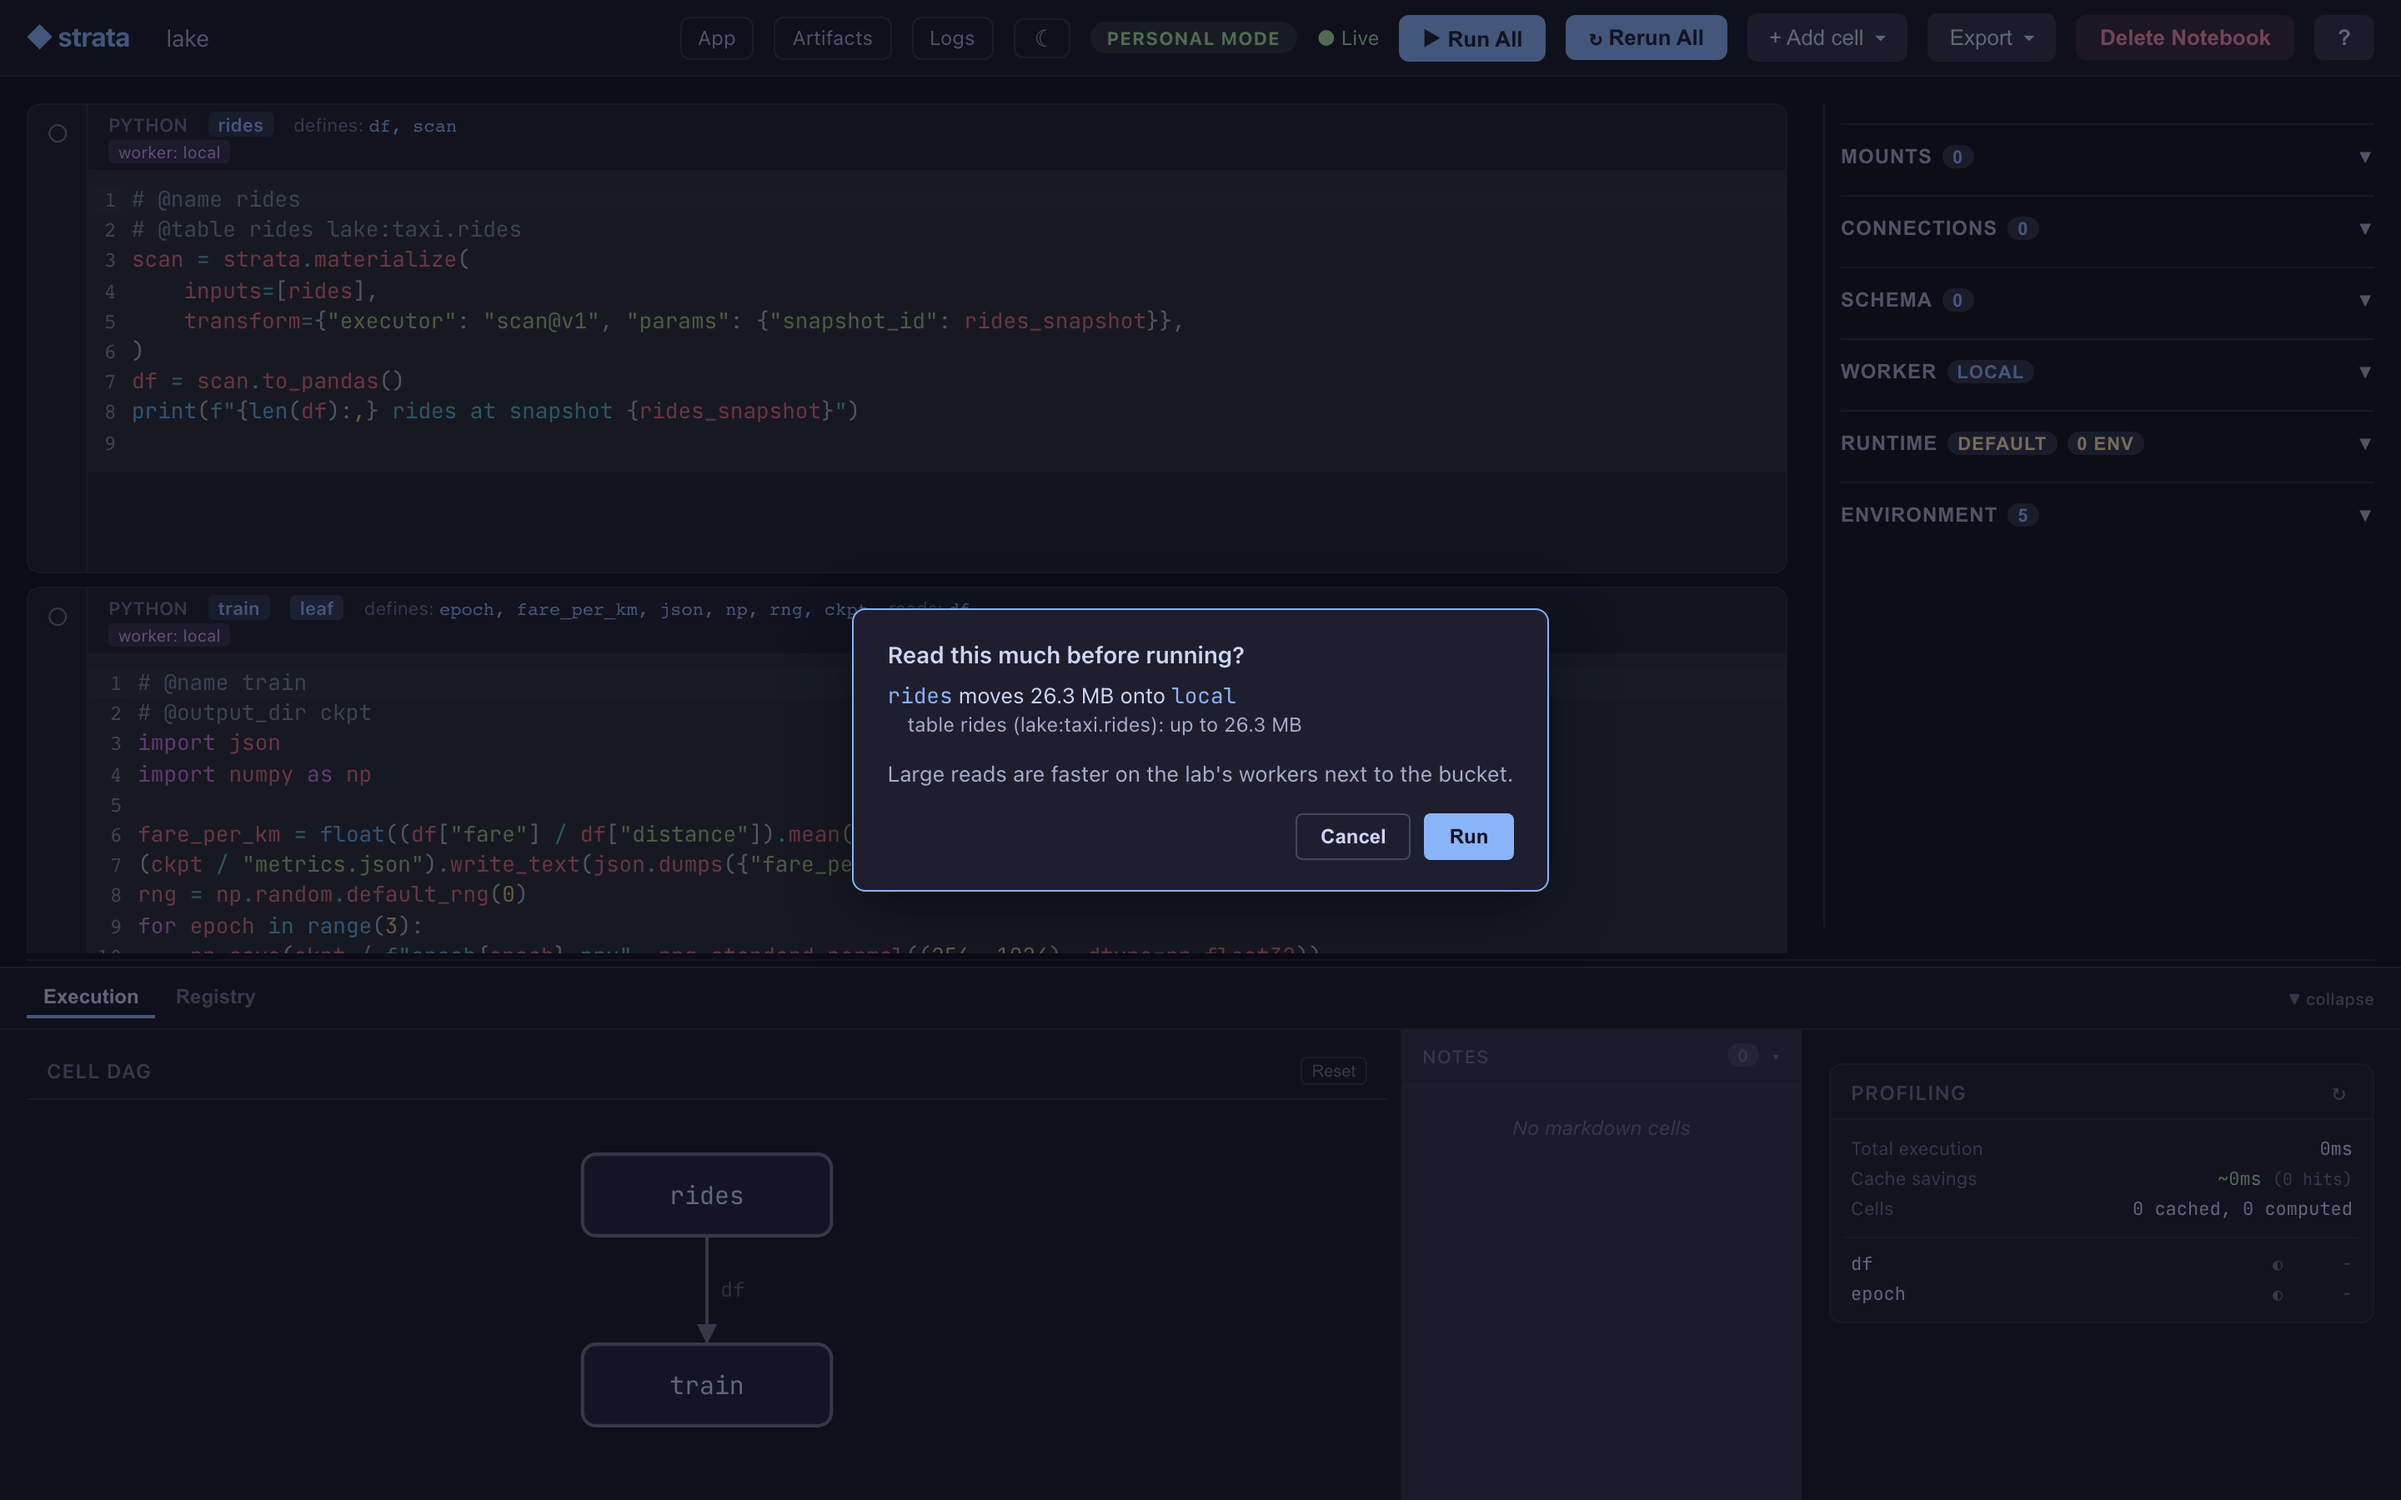
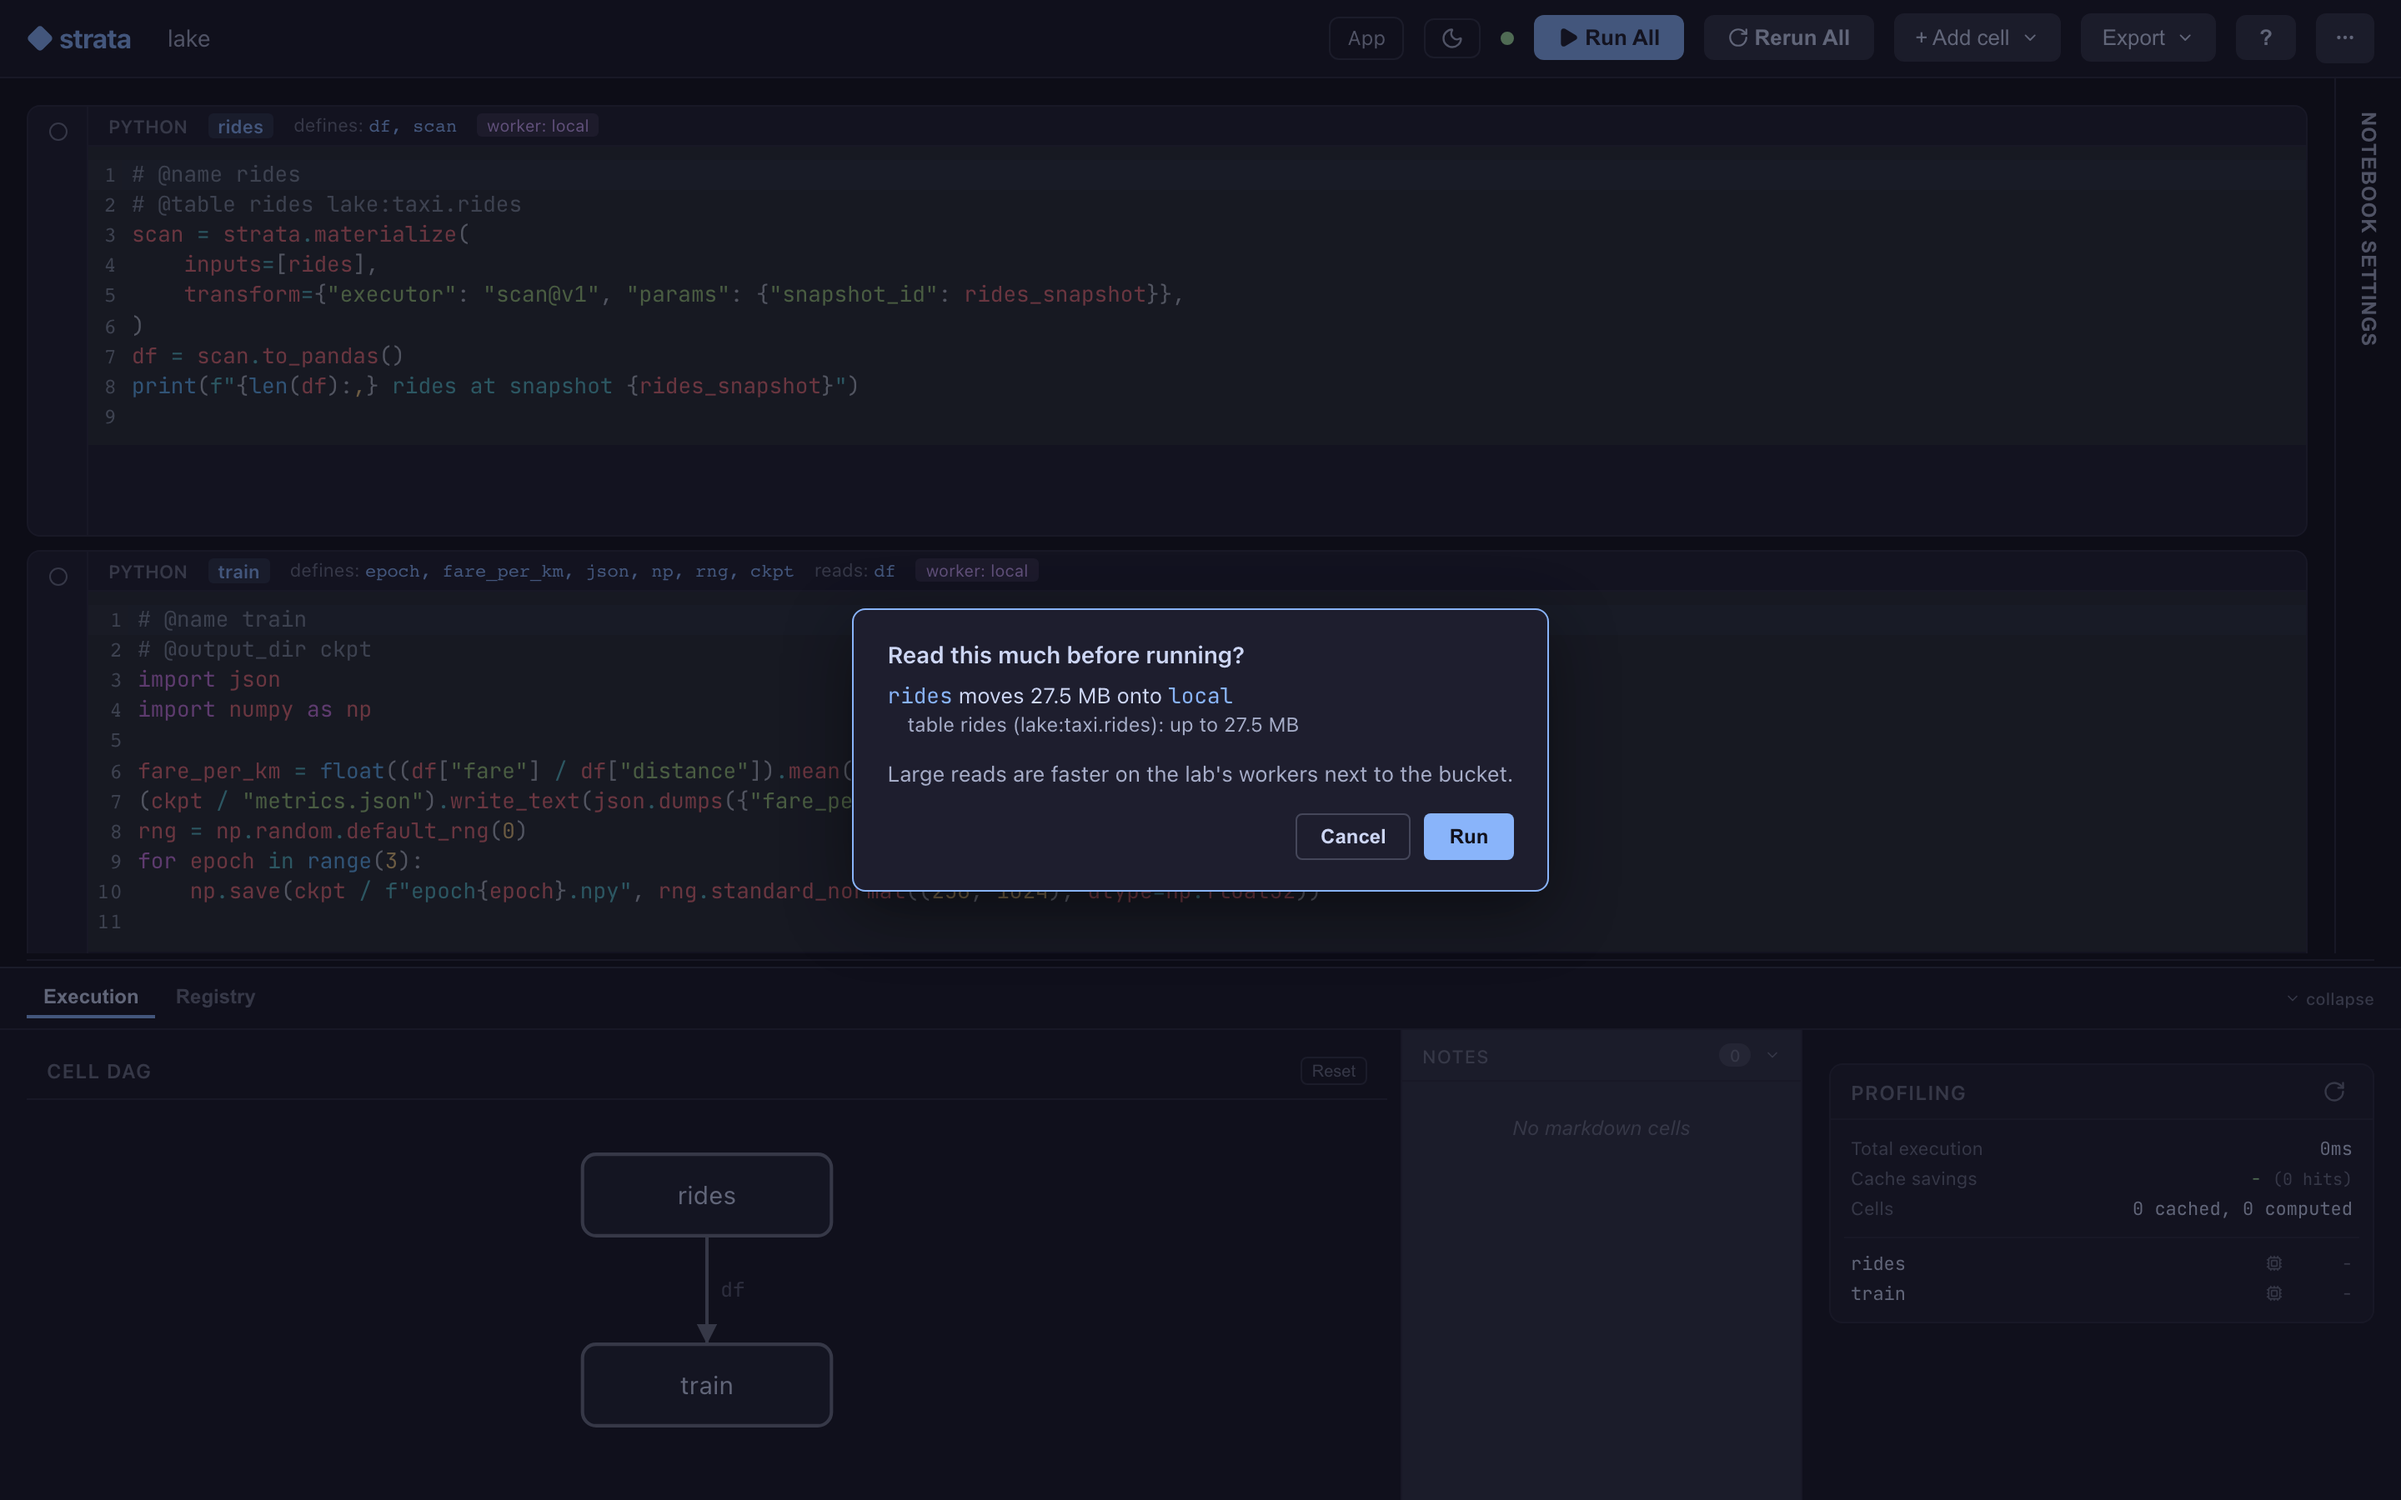
docs: regenerate the web screenshots and the live GIFs (#1414)
Every web image still showed the old chrome: emoji icons, six sidebar panels,
leaf and warm badges. They now come from current main. The captions follow
what the images show, and the Tests shot no longer cuts off its last row.

diff --git a/docs/getting-started/notebook.md b/docs/getting-started/notebook.md
@@ -12,12 +12,12 @@ browser. The same notebook can also be driven by a
 [terminal](../notebook/tui.md).
 
 ![The Strata notebook UI: two named Python cells, load and summarize, each with
-its source and an interactive table of results, the sidebar panels for mounts,
-workers and environment, and a bottom drawer showing the DAG of load, summarize
+its source and an interactive table of results, the Notebook settings rail
+collapsed on the right, and a bottom drawer showing the DAG of load, summarize
 and plot with per-cell timings.](../assets/notebook-anatomy-light.png#only-light)
 ![The Strata notebook UI: two named Python cells, load and summarize, each with
-its source and an interactive table of results, the sidebar panels for mounts,
-workers and environment, and a bottom drawer showing the DAG of load, summarize
+its source and an interactive table of results, the Notebook settings rail
+collapsed on the right, and a bottom drawer showing the DAG of load, summarize
 and plot with per-cell timings.](../assets/notebook-anatomy-dark.png#only-dark)
 
 The pipeline below is the one in that screenshot.
@@ -264,12 +264,12 @@ executing. There is no confirmation step: cascades run automatically,
 so running a cell always gives you a result computed from current
 inputs.
 
-![The same notebook after the loader is edited: the loader carries a "Why
-stale?" pill and the two cells that depend on it are outlined in amber, in the
-cell list and in the DAG below.](../assets/cascade-stale-light.png#only-light)
-![The same notebook after the loader is edited: the loader carries a "Why
-stale?" pill and the two cells that depend on it are outlined in amber, in the
-cell list and in the DAG below.](../assets/cascade-stale-dark.png#only-dark)
+![The same notebook after the loader is edited: the loader reads stale, with a
+"Why stale?" pill and its old output dimmed under "Output from the previous
+run", and all three cells are outlined in amber in the DAG below.](../assets/cascade-stale-light.png#only-light)
+![The same notebook after the loader is edited: the loader reads stale, with a
+"Why stale?" pill and its old output dimmed under "Output from the previous
+run", and all three cells are outlined in amber in the DAG below.](../assets/cascade-stale-dark.png#only-dark)
 
 Revert the edit (`time.sleep(1)` back to `time.sleep(2)`) and
 re-run: every cell becomes a cache hit on the way through, no work

diff --git a/docs/notebook/lake-aware-cells.md b/docs/notebook/lake-aware-cells.md
@@ -286,8 +286,8 @@ the whole run, Run All included, and running a cell's tests asks too. A ready
 cell is left out, since its run is a cache hit, unless its stored result has
 since been collected.
 
-![The notebook dimmed behind a dialog titled "Read this much before running?": the rides cell moves 26.3 MB onto local, from table rides (lake:taxi.rides), up to 26.3 MB, followed by the host's message and Cancel and Run buttons.](../assets/read-confirm-light.png#only-light)
-![The notebook dimmed behind a dialog titled "Read this much before running?": the rides cell moves 26.3 MB onto local, from table rides (lake:taxi.rides), up to 26.3 MB, followed by the host's message and Cancel and Run buttons.](../assets/read-confirm-dark.png#only-dark)
+![The notebook dimmed behind a dialog titled "Read this much before running?": the rides cell moves 27.5 MB onto local, from table rides (lake:taxi.rides), up to 27.5 MB, followed by the host's message and Cancel and Run buttons.](../assets/read-confirm-light.png#only-light)
+![The notebook dimmed behind a dialog titled "Read this much before running?": the rides cell moves 27.5 MB onto local, from table rides (lake:taxi.rides), up to 27.5 MB, followed by the host's message and Cancel and Run buttons.](../assets/read-confirm-dark.png#only-dark)
 
 A Run is kept per cell, machine and inputs (the mount listings, table snapshots
 and fetch URLs), so a rerun on the same machine does not ask again, while new

diff --git a/docs/guides/data/mounts.md b/docs/guides/data/mounts.md
@@ -44,8 +44,8 @@ pinned mount's, is not guessed. After a successful run, `.strata/reads/index.jso
 what each input moved and on which machine; see
 [What a run moved](../../notebook/lake-aware-cells.md#what-a-run-moved).
 
-![A cell that scans the table lake:taxi.rides, with a badge in its header reading "reads up to 26.3 MB" beside its worker and cache badges.](../../assets/input-weight-light.png#only-light)
-![A cell that scans the table lake:taxi.rides, with a badge in its header reading "reads up to 26.3 MB" beside its worker and cache badges.](../../assets/input-weight-dark.png#only-dark)
+![A cell that scans the table lake:taxi.rides, with a badge in its header reading "reads up to 27.5 MB" beside its worker and cache badges.](../../assets/input-weight-light.png#only-light)
+![A cell that scans the table lake:taxi.rides, with a badge in its header reading "reads up to 27.5 MB" beside its worker and cache badges.](../../assets/input-weight-dark.png#only-dark)
 
 Strata copies a remote mount in its own process, not the notebook's venv, so
 its filesystem library goes where Strata is installed: the `s3` extra for
